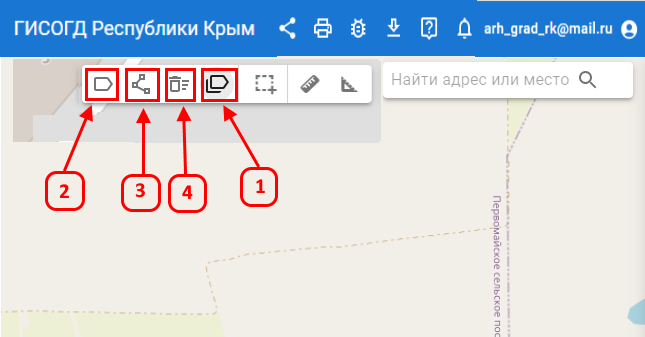
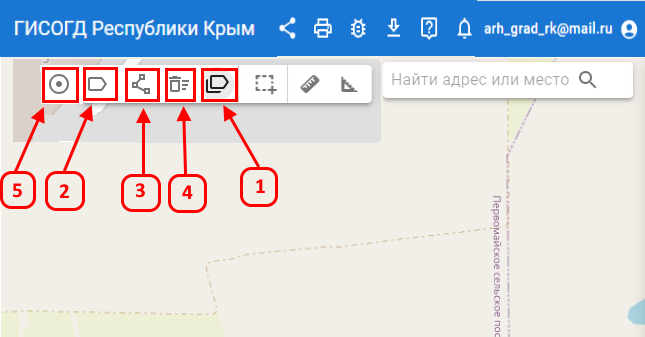
Объединенный запрос на вытягивание 547: chore(ui:help) update help for map tools
Merged PR: #2356

Changed region(s): [[0.031, 0.178, 0.186, 0.4748], [0.0, 0.4748, 0.062, 0.6231]]

diff --git a/portal-ui/src/assets/help/map/mapTools/turningPoints/turningPoints.html b/portal-ui/src/assets/help/map/mapTools/turningPoints/turningPoints.html
@@ -1,0 +1,14 @@
+<p><b>Поворотные точки</b></p>
+<p>Функционал предназначен для формирования точек координат целевого объекта на карте.</p>
+<p>Для включения и отображения поворотных точек выполните следующие шаги:</p>
+<ol>
+    <li>Откройте меню аннотаций на верхней панели инструментов (1).</li>
+    <center><img src="turningPoints_1.png" alt="" /></center>
+    <li>При выборе одного объекта кнопка по созданию поворотных точек становится доступна</li>
+    <center><img src="turningPoints_2.png" alt="" /></center>
+    <li>Нажмите (2) для формирования поворотных точек.</li>
+    <li>Для отключения поворотных точек нажмите (3).</li>
+    <center><img src="turningPoints_3.png" alt="" /></center>
+</ol>
+<p>Результат выполнения задачи: после выделения объекта на карте пользователь видит поворотные точки на всех вершинах объекта, 
+    которые могут быть использованы для анализа или вывода на печать.</p>

diff --git a/portal-ui/src/assets/help/map/mapTools/labels/labels.html b/portal-ui/src/assets/help/map/mapTools/labels/labels.html
@@ -14,7 +14,8 @@
     <b>Вспомогательная линия</b> (3) — позволяет добавить вспомогательные линии к аннотациям, чтобы обозначить связь с
     другими объектами на карте.
   </li>
-  <li><b>Удалить все аннотации</b> (4) — позволяет удалить все созданные аннотации с карты.</li>
+  <li><b>Удалить все аннотации</b> (4) — позволяет удалить все созданные аннотации с карты.</li>  
+  <li><b>Добавить поворотные точки</b> (5) — позволяет добавить поворотные точки одного объекта на карту.</li>
 </ul>
 <p>
   Аннотация видна пользователю в браузере на том компьютере, где она создается и под данной учетной записью, и может
